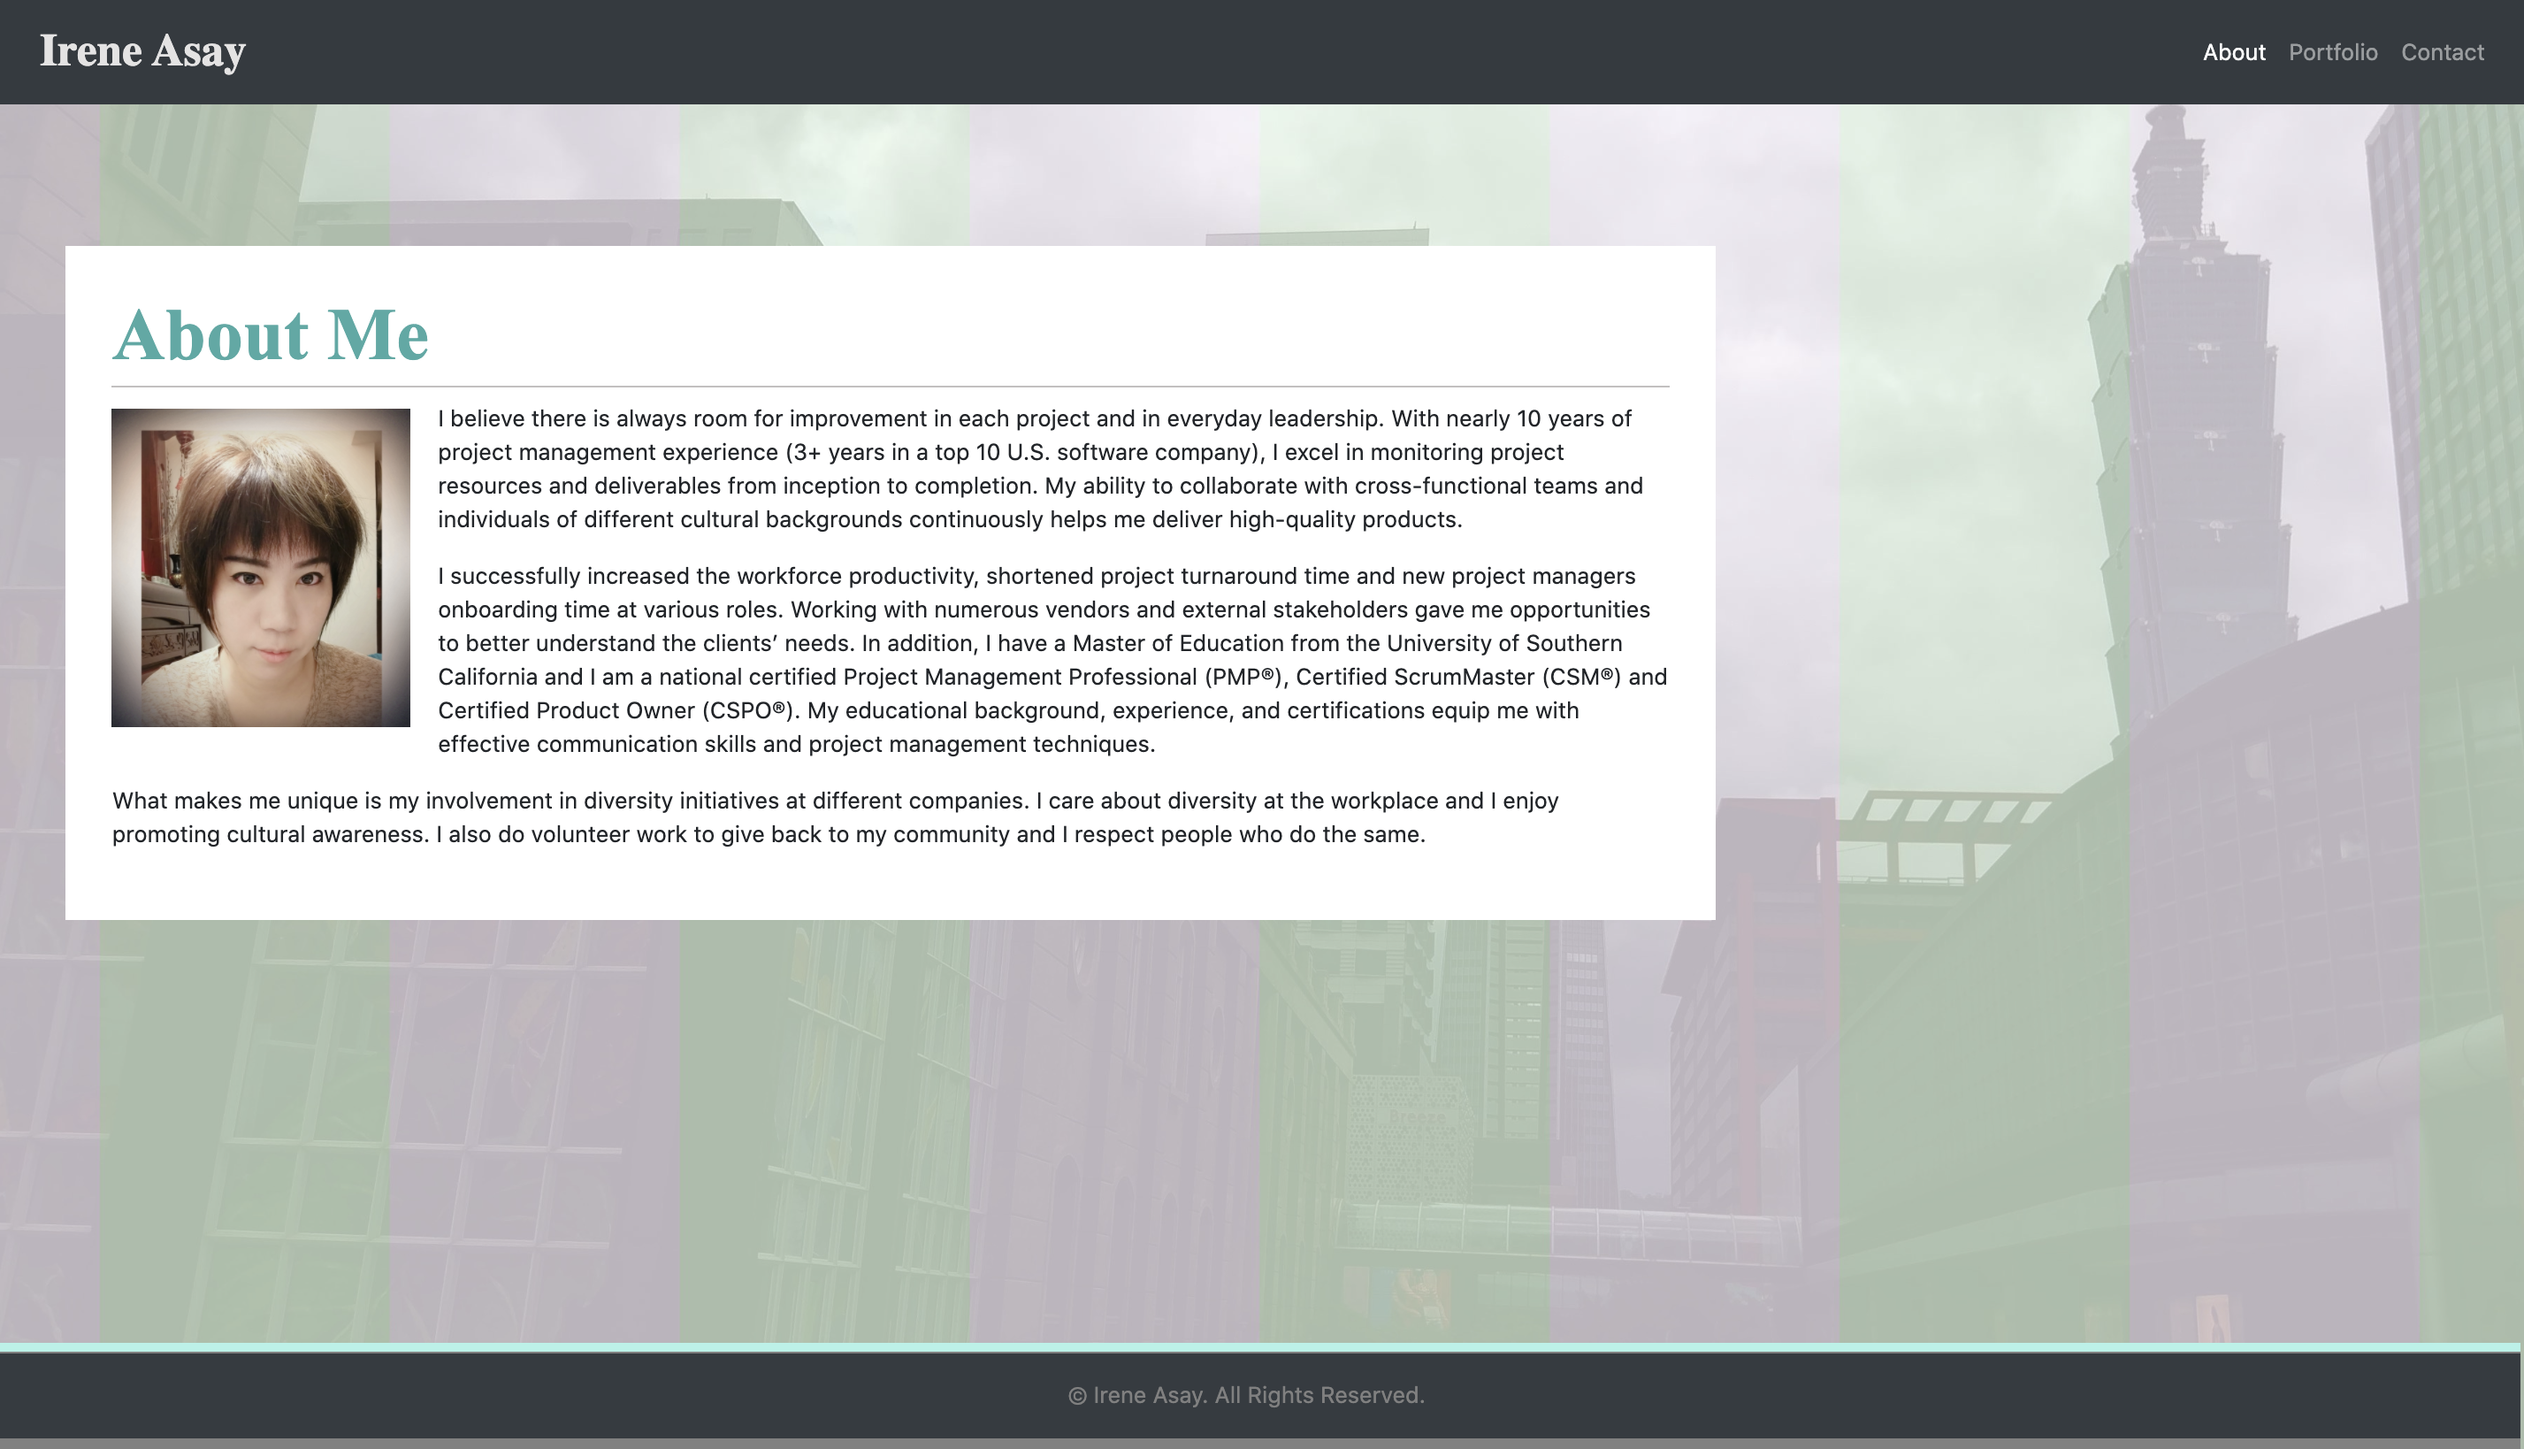
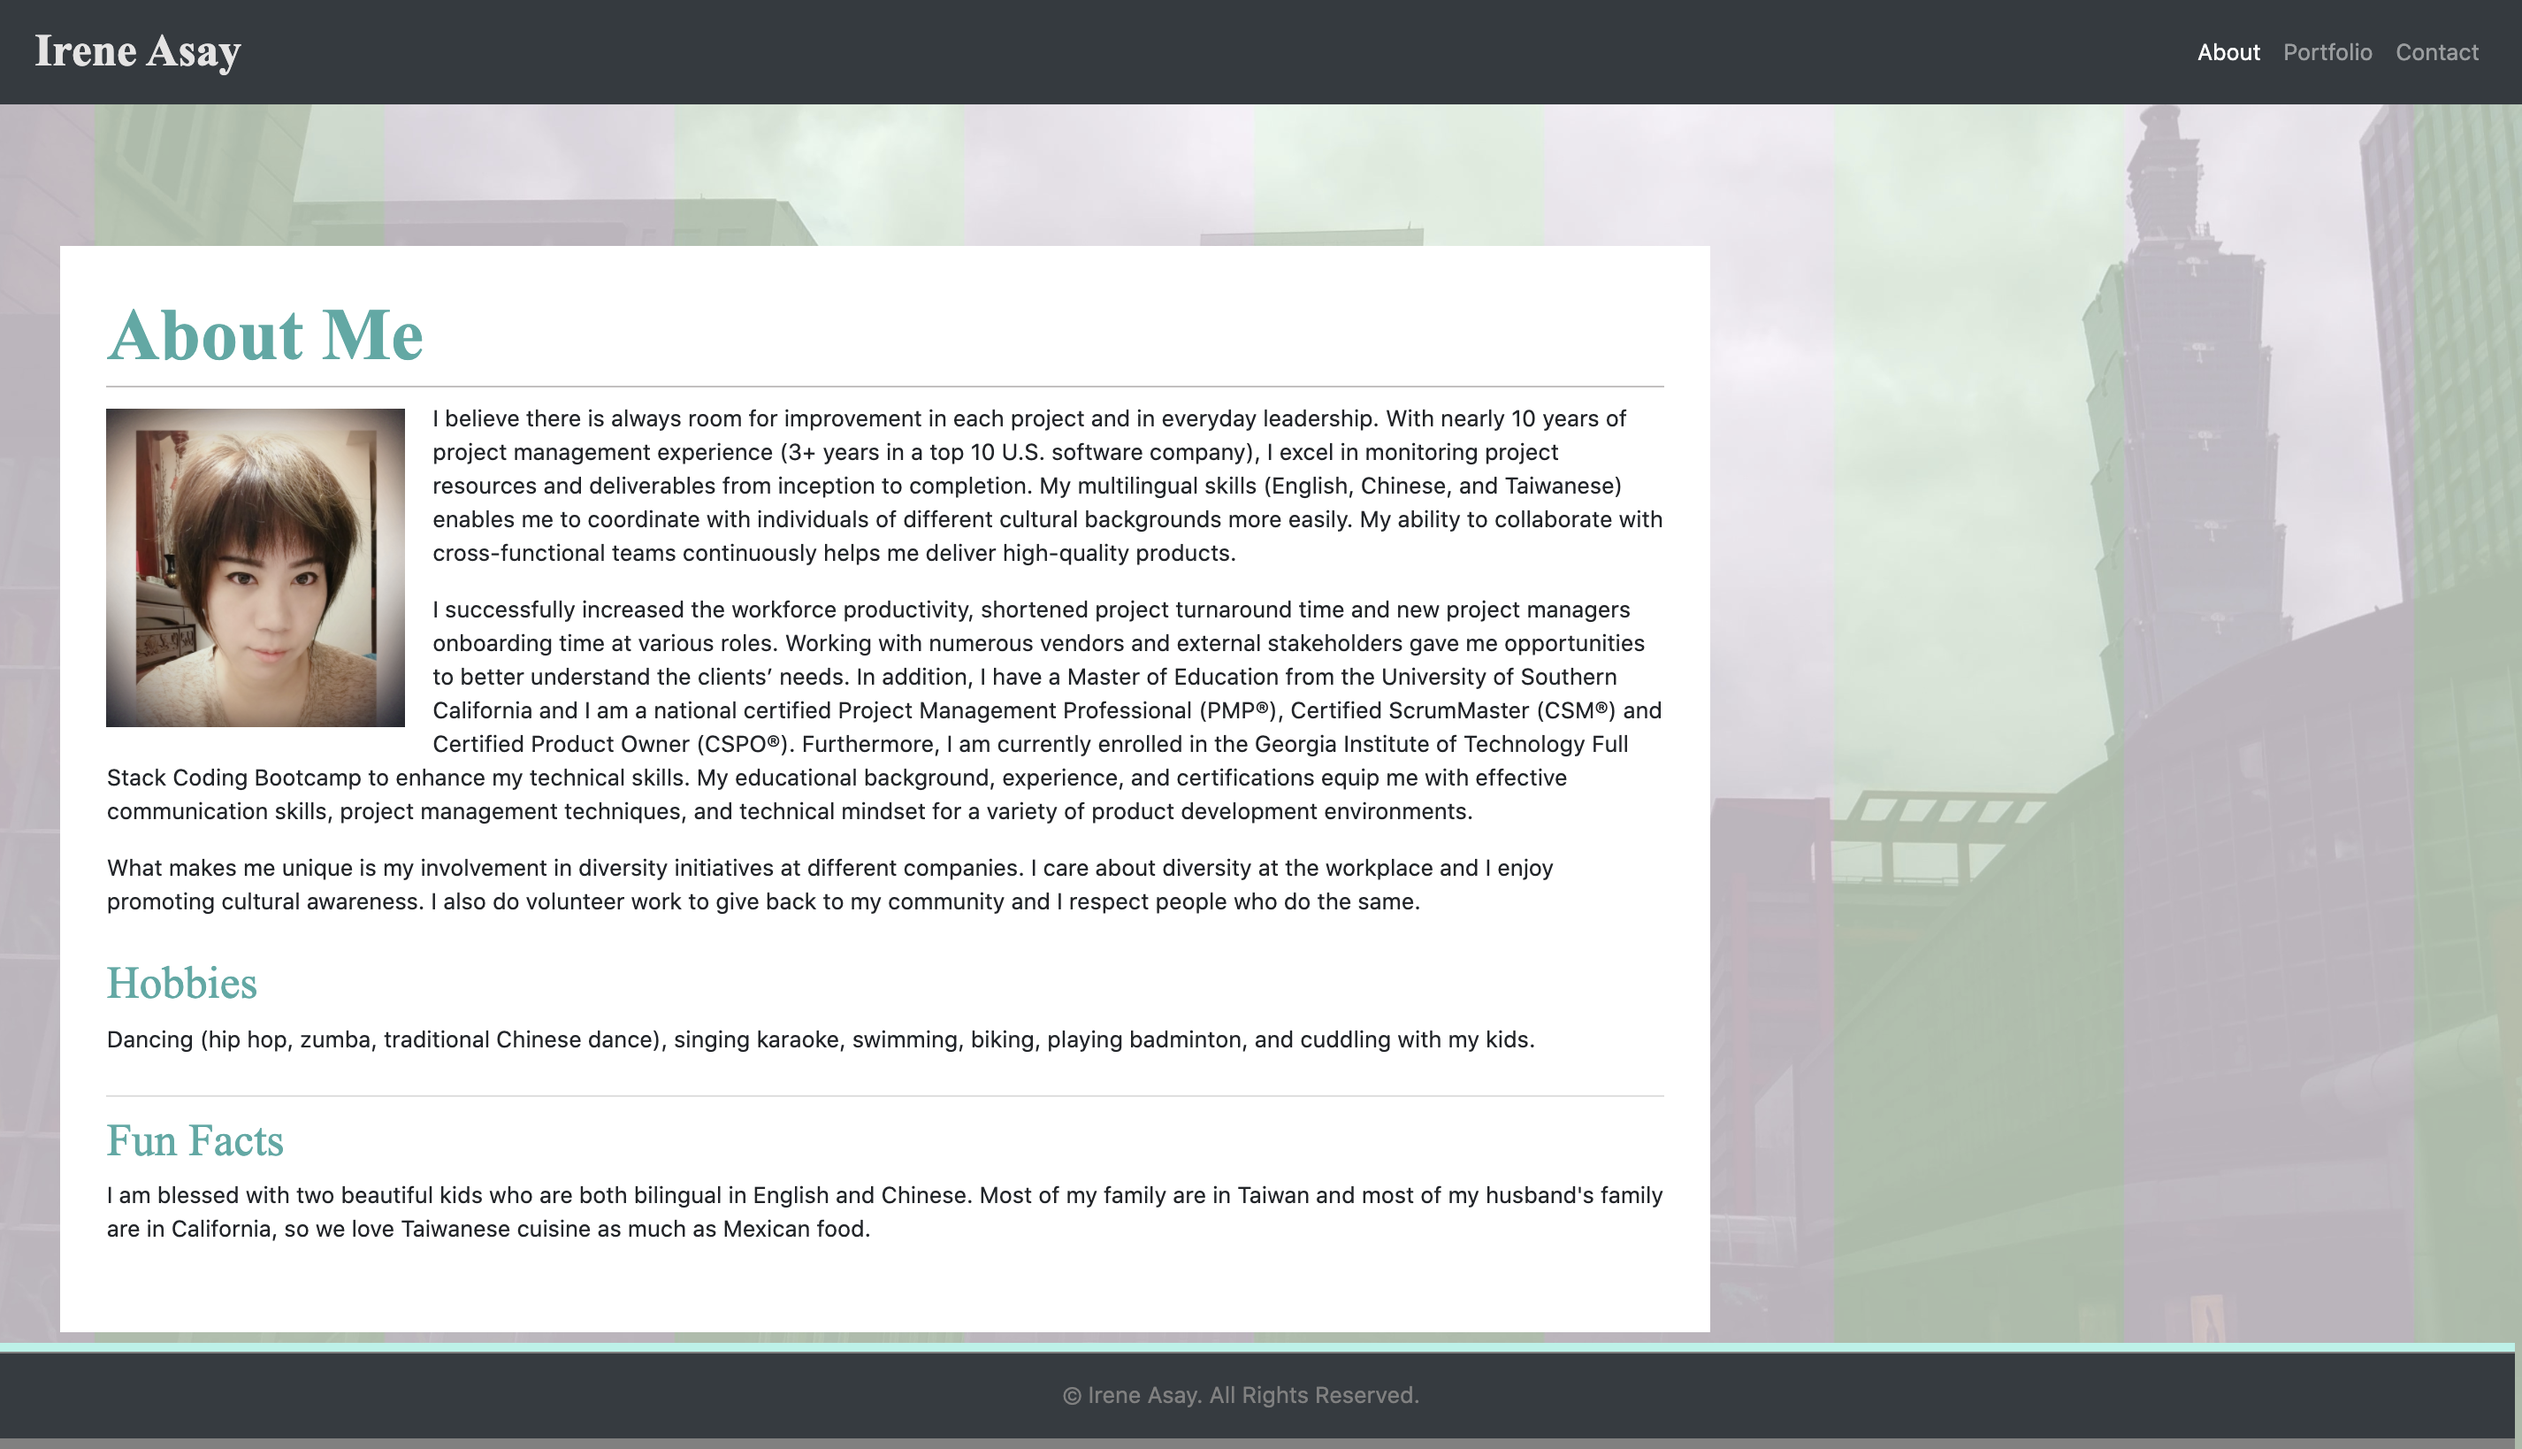
updated webpage screensot

diff --git a/README.md b/README.md
@@ -1,9 +1,8 @@
-<<<<<<< HEAD
-# Net Time Traveler
+# My Webpage
 
-## Project Description 
+## Description 
 
-NetTimeTraveler is an application that allows a user to travel back in time to a specific website archive and retrieves a book that was published in the same year.
+This is my personal website where people can learn about my professional background and some fun facts about me. 
 
 ![Landing Page](assets/image/Screenshot_1.png)
 ![Error Modal](assets/image/Screenshot_2.png)
@@ -41,7 +40,3 @@ As a user when I open the NetTimeTraveler application. I see an input for a sear
 ## License
 
 © Irene Asay. All Rights Reserved. Under the [MIT/](/LICENSE) license.
-=======
-# My Webpage
-Demo ()
->>>>>>> 718d718ef2e46faa94ffd604f91a4dcfdca8073f
